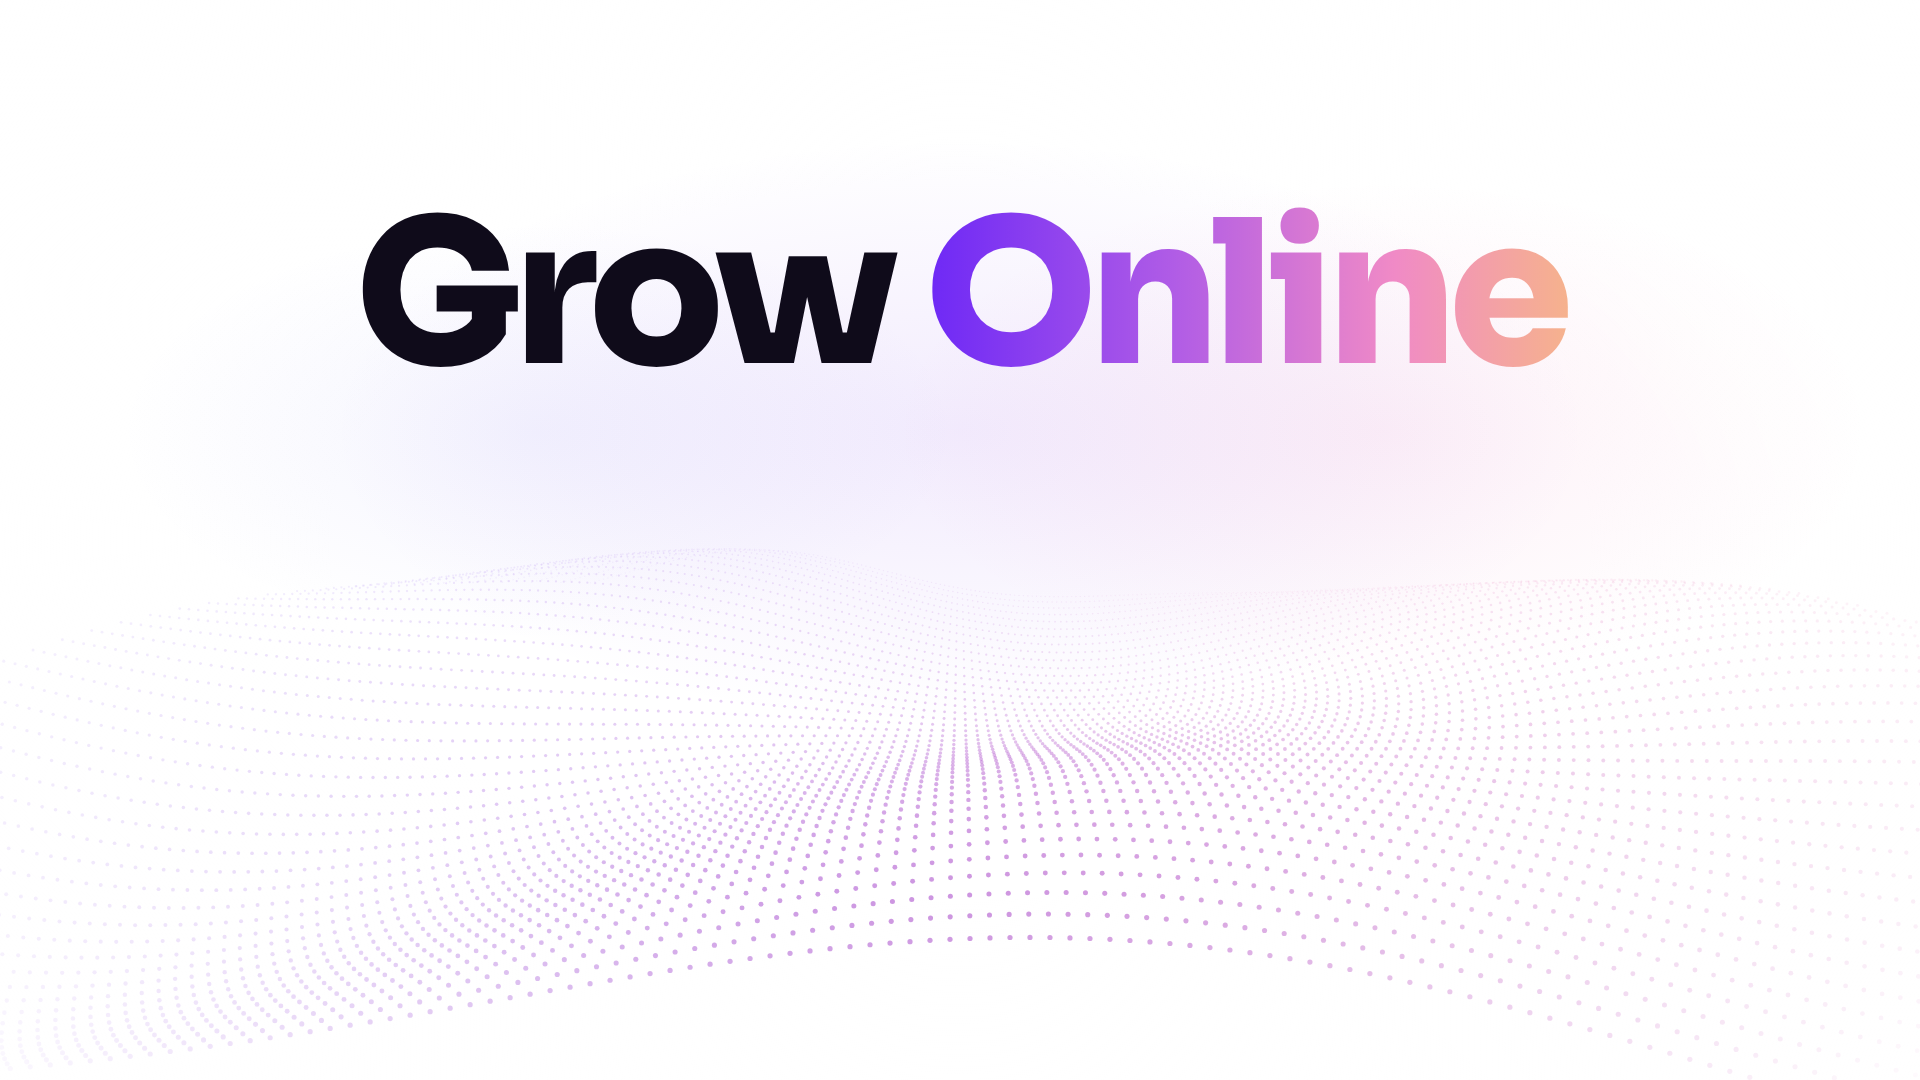
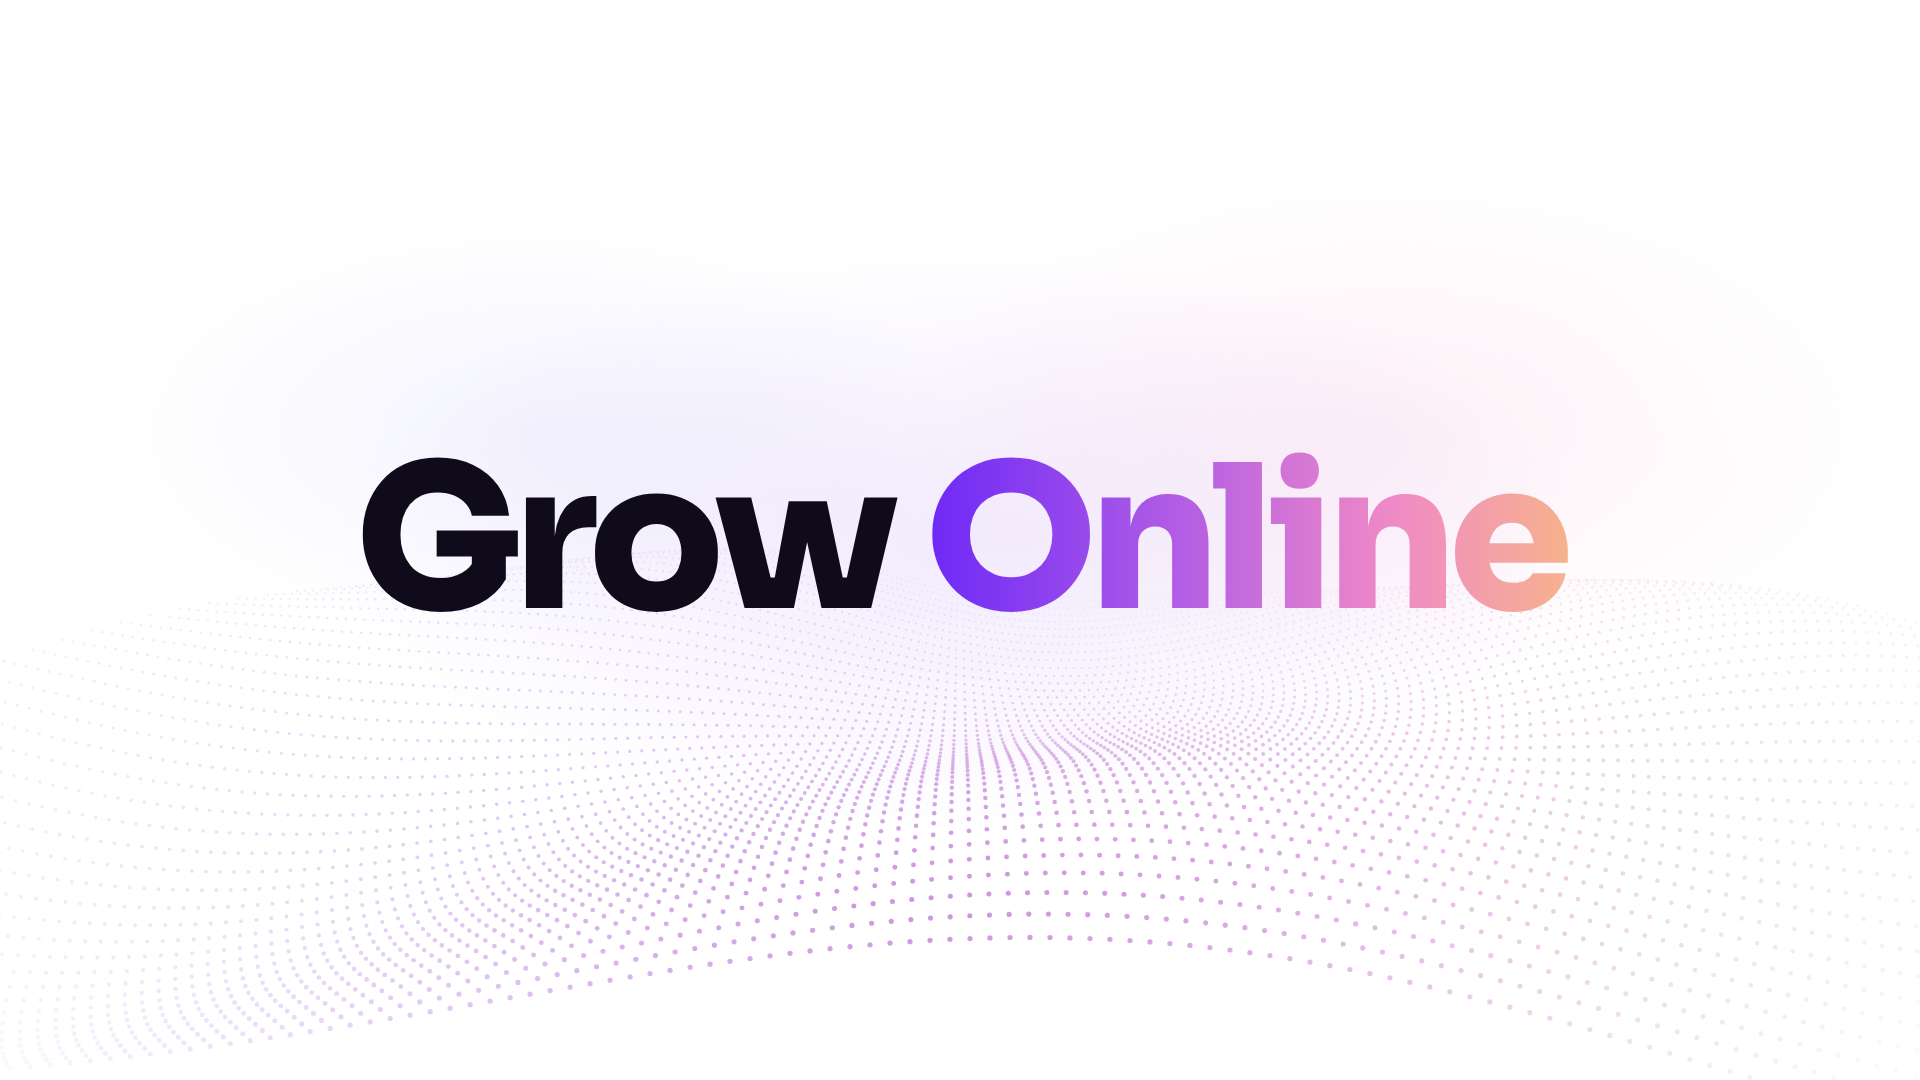
Copertina bianca: scritta centrata
Claude-Session: https://claude.ai/code/session_01U1jjcUAqENdpgzt23dCL9u

Changed region(s): [[0.1875, 0.3972, 0.8438, 0.5806], [0.1875, 0.1833, 0.8125, 0.3361]]

diff --git a/whatsapp/copertina-bianca.html b/whatsapp/copertina-bianca.html
@@ -6,12 +6,12 @@
 html,body{width:1920px;height:1080px;overflow:hidden;background:#ffffff}
 body{position:relative;font-family:Sora,sans-serif}
 .glow{position:absolute;inset:0;background:
- radial-gradient(900px 420px at 50% 40%,rgba(124,58,237,.10),transparent 70%),
+ radial-gradient(900px 420px at 50% 50%,rgba(124,58,237,.10),transparent 70%),
  radial-gradient(700px 360px at 72% 40%,rgba(236,72,153,.08),transparent 70%),
  radial-gradient(600px 300px at 28% 40%,rgba(99,102,241,.07),transparent 70%)}
 canvas{position:absolute;inset:0}
 .vig{position:absolute;inset:0;background:radial-gradient(1400px 800px at 50% 50%,transparent 45%,#ffffff 100%)}
-h1{position:absolute;left:0;right:0;top:295px;transform:translateY(-50%);text-align:center;
+h1{position:absolute;left:0;right:0;top:50%;transform:translateY(-50%);text-align:center;
  font-weight:800;font-size:200px;letter-spacing:-.045em;line-height:1;color:#0f0b1a}
 h1 span{background:linear-gradient(90deg,#6d28f6 0%,#b05ce6 38%,#f08ac6 72%,#f6b48a 100%);
  -webkit-background-clip:text;background-clip:text;color:transparent;padding-right:.06em;margin-right:-.06em}
